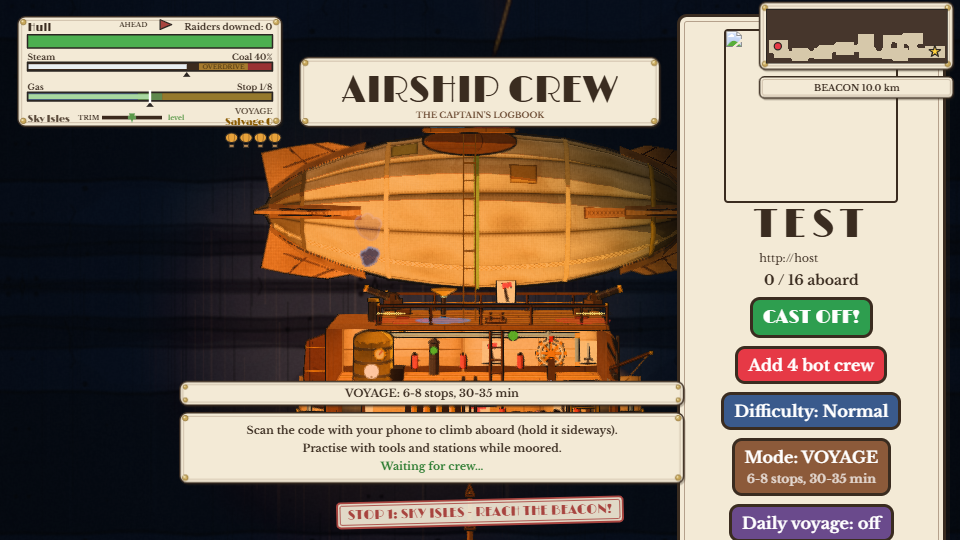
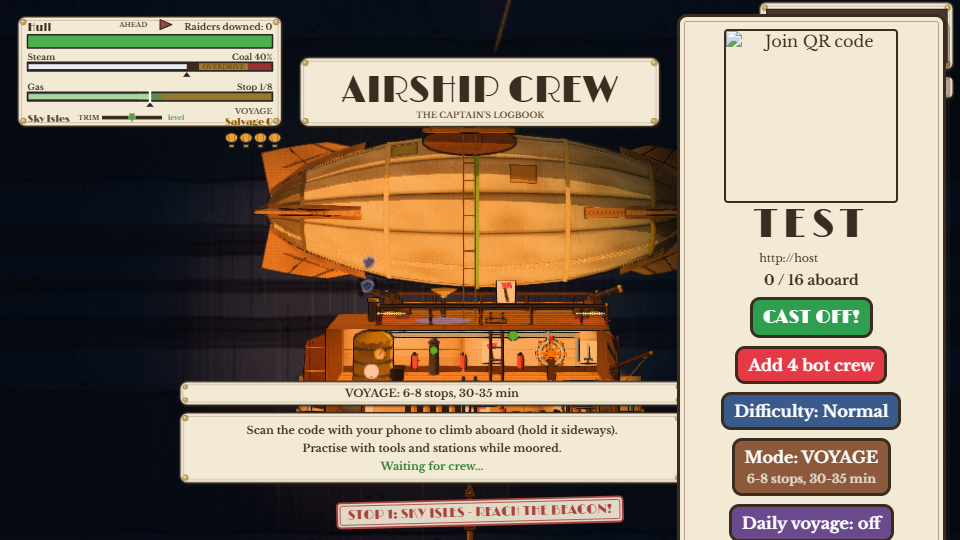
Thunderbird 3D fallback: rename a shape variable the no-wobble lint read as time; lobby 3D fixture re-captured (the join panel now shows above the canvas)

Changed region(s): [[0.7812, 0.0296, 1.0, 0.2074], [0.6875, 0.7111, 0.7188, 0.8889], [0.375, 0.4148, 0.4062, 0.5333]]

diff --git a/public/modules/view3d/creatureThunderbird.js b/public/modules/view3d/creatureThunderbird.js
@@ -14,7 +14,7 @@ export function buildThunderbird(cr, P, opts = {}) {
   const torso = cr.parts.find((p) => p.kind === 'mantle'), gz = cr.parts.find((p) => p.kind === 'heart');
   const R = torso ? torso.shape.r : 360, L = torso ? torso.shape.len : 900, ax = torso ? torso.at[0] : -480, ay = torso ? -torso.at[1] : 0;
   // the torso: a lathe along x from the tail end to the breast; a plump egg (radius from the sim's capsule), a little flatter front to back so the wings sit proud of it
-  const prof = (u) => { const t = Math.sin(Math.PI * Math.min(1, Math.max(0, u))) ** 0.6; return R * (0.15 + 0.85 * t); };
+  const prof = (u) => { const k = Math.sin(Math.PI * Math.min(1, Math.max(0, u))) ** 0.6; return R * (0.15 + 0.85 * k); };
   const pos = (u, v, out) => { const th = v * Math.PI * 2, r = prof(u); return out.set(ax - R * 0.9 + u * (L + R * 1.8), ay + r * Math.cos(th), r * 0.8 * Math.sin(th)); };
   mesh.grid(low ? 22 : 34, low ? 14 : 22, pos, null, { ow: OW, color: '#ffffff', name: 'mantle' }, (u, v) => mantleUV(v, u));
   // the gizzard: a glowing lump on the breast, the generic view's heart window (shown only while the sim has it open)
